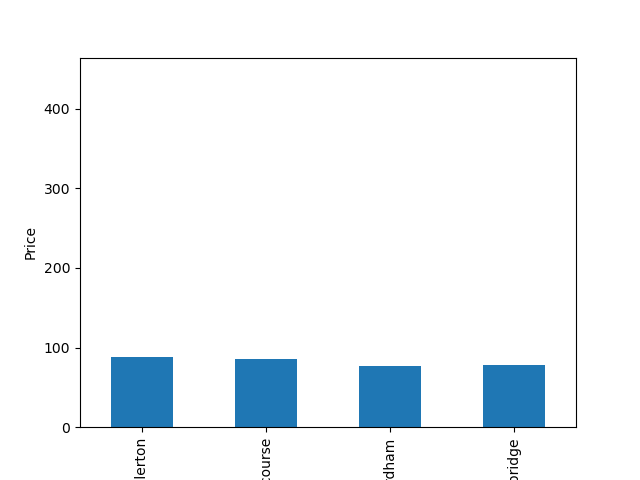
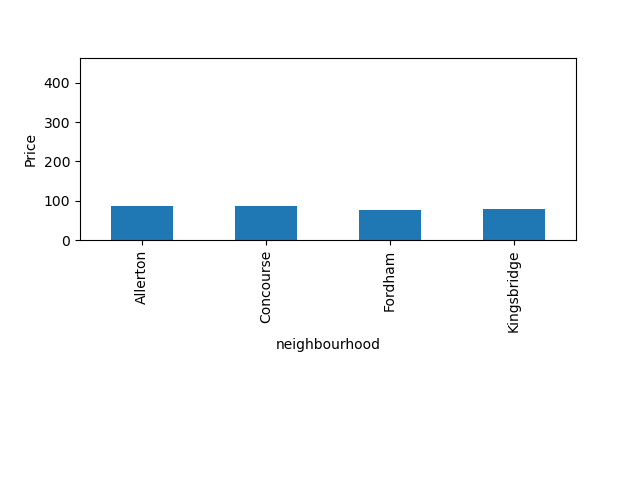
fixed graphs so names are visible

diff --git a/ha_8.py b/ha_8.py
@@ -73,6 +73,7 @@ print("Min: ", my_bronx['availability_365'].min())
 bronx_neighborhoods = bronx.groupby(['neighbourhood'])  #In all Bronx neighborhoods
 bronx_neighborhoods['price'].mean().plot.bar()
 plt.ylabel('Price')
+plt.gcf().subplots_adjust(bottom=0.5)
 fig1 = plt.gcf()
 fig1.savefig('meanPriceBronxNeighborhoods.png')
 #plt.clf()
@@ -90,6 +91,7 @@ fig1.savefig('meanPriceMyBronxNeighborhoods.png')
 bronx_neighborhoods = bronx.groupby(['neighbourhood']) #In all Bronx neighborhoods
 bronx_neighborhoods['number_of_reviews'].plot.bar()
 plt.ylabel('Number of Reviews')
+plt.gcf().subplots_adjust(bottom=0.5)
 fig2 = plt.gcf()
 fig2.savefig('numReviewsBronxNeighborhoods.png')
 #plt.clf()
